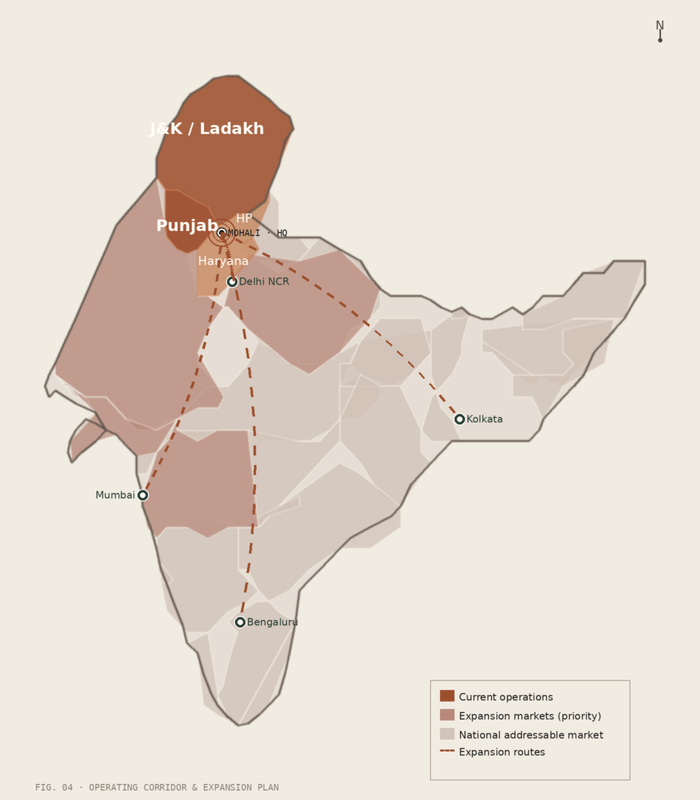
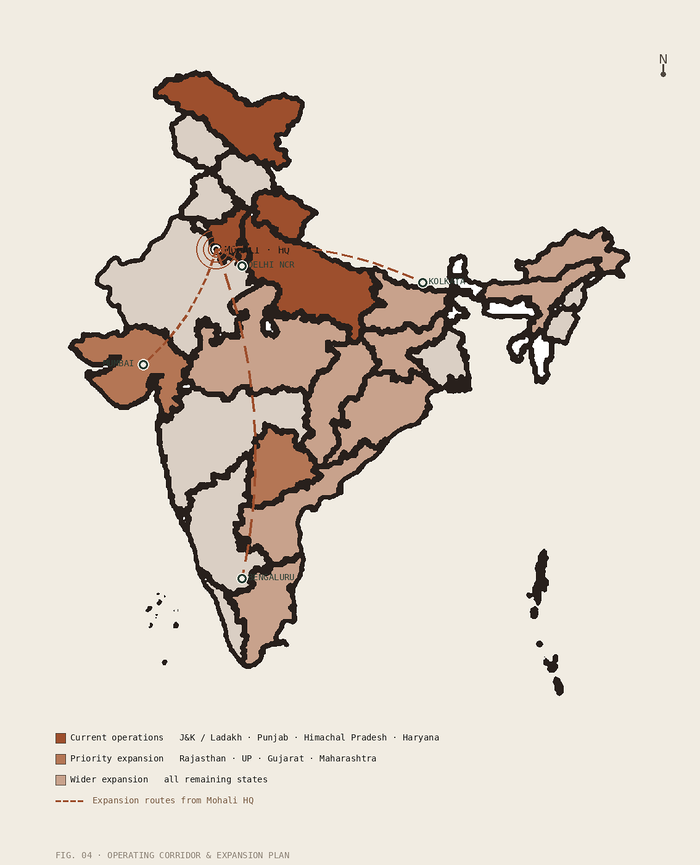
correction(1): add high fidelity map of India, remove map footer

diff --git a/index.html b/index.html
@@ -463,71 +463,6 @@
                   <path d="M 124 30 Q 156 20 189 30 Q 202 40 214 50 L 222 109 Q 210 124 196 138 Q 215 158 231 177 Q 267 208 302 217 Q 339 222 376 227 Q 380 222 537 177 Q 515 220 504 246 Q 494 266 492 286 Q 480 302 467 317 Q 456 326 448 335 L 374 335 Q 362 348 351 360 Q 336 370 321 380 Q 297 395 272 409 Q 258 426 249 443 Q 242 458 240 472 Q 237 482 236 492 Q 231 519 228 545 L 187 598 Q 182 594 177 590 L 161 561 Q 142 507 122 453 Q 113 420 104 386 Q 100 367 99 348 L 53 335 L 24 293 Q 41 287 59 282 Q 79 279 99 276 Q 77 252 55 227 Q 52 207 52 187 Q 67 163 82 138 Q 99 113 117 89 Z"/>
                 </clipPath>
               </defs>
-
-              <!-- Grid backdrop -->
-              <rect width="560" height="630" fill="url(#geoGrid2)"/>
-
-              <!-- India main outline — computed from actual geographic coordinates -->
-              <path d="M 124 30 Q 156 20 189 30 Q 202 40 214 50 L 222 109 Q 210 124 196 138 Q 215 158 231 177 Q 267 208 302 217 Q 339 222 376 227 Q 380 222 537 177 Q 515 220 504 246 Q 494 266 492 286 Q 480 302 467 317 Q 456 326 448 335 L 374 335 Q 362 348 351 360 Q 336 370 321 380 Q 297 395 272 409 Q 258 426 249 443 Q 242 458 240 472 Q 237 482 236 492 Q 231 519 228 545 L 187 598 Q 182 594 177 590 L 161 561 Q 142 507 122 453 Q 113 420 104 386 Q 100 367 99 348 L 53 335 L 24 293 Q 41 287 59 282 Q 79 279 99 276 Q 77 252 55 227 Q 52 207 52 187 Q 67 163 82 138 Q 99 113 117 89 Z"
-                    fill="#EAE3D5" stroke="#181816" stroke-width="0.9" stroke-opacity="0.35"/>
-
-              <!-- Expansion glow — clipped to India, radiates from Mohali outward -->
-              <rect width="560" height="630" fill="url(#reachGrad)" clip-path="url(#indiaClip2)"/>
-
-              <!-- NW corridor highlighted — J&K + HP + Punjab + Haryana -->
-              <path d="M 124 30 Q 156 20 189 30 Q 202 40 214 50 L 222 109 Q 210 124 196 138 Q 215 155 232 172 L 232 210 L 155 210 L 112 187 L 82 138 Q 99 113 117 89 Z"
-                    fill="#9D4F2D" fill-opacity="0.78" stroke="#181816" stroke-width="0.8"/>
-
-              <!-- State labels within the corridor -->
-              <!--
-              <text x="162" y="82"  text-anchor="middle" font-family="Fraunces, serif" font-size="14" fill="#FAF6EE" font-weight="500">J&amp;K</text>
-              <text x="210" y="130" text-anchor="middle" font-family="Fraunces, serif" font-size="9"  fill="#1a1916"  font-weight="500">HP</text>
-              <text x="152" y="175" text-anchor="middle" font-family="Fraunces, serif" font-size="13" fill="#FAF6EE" font-weight="500">Punjab</text>
-              <text x="208" y="200" text-anchor="middle" font-family="Fraunces, serif" font-size="9"  fill="#1a1916"  font-weight="500">Haryana</text>
-              -->
-
-              <!-- Mohali HQ marker -->
-              <g transform="translate(173, 154)">
-                <circle r="13" fill="none" stroke="#181816" stroke-width="0.7" stroke-dasharray="2 3" class="hq-ring"/>
-                <circle r="5"  fill="#FAF6EE" stroke="#181816" stroke-width="1.4"/>
-                <circle r="2"  fill="#181816"/>
-              </g>
-
-              <!-- Mohali leader line — curves up and out above J&K to clean label area -->
-              <path d="M 173 147 Q 204 88 244 36" fill="none" stroke="#181816" stroke-width="0.5" stroke-opacity="0.55"/>
-              <!--
-              <text x="248" y="34" font-family="JetBrains Mono, monospace" font-size="8" fill="#181816" letter-spacing="1">MOHALI · HQ</text>
-              -->
-              <!-- Region annotation — in open space to the right of the map -->
-              <!--
-              <text x="390" y="136" font-family="Fraunces, serif" font-size="13" font-style="italic" fill="#181816">Northwest India</text>
-              -->
-              <line x1="388" y1="143" x2="435" y2="143" stroke="#181816" stroke-width="0.6"/>
-              <!--
-              <text x="388" y="155" font-family="JetBrains Mono, monospace" font-size="7.5" fill="#5C5751" letter-spacing="1.2">OPERATING CORRIDOR</text>
-              -->
-
-              <!-- Expansion routes — very subtle dashed arcs, clipped to India, no arrowheads -->
-              <g clip-path="url(#indiaClip2)">
-                <!-- SW toward Mumbai -->
-                <path d="M 173 154 Q 122 252 104 386" fill="none" stroke="#9D4F2D" stroke-width="0.8" stroke-opacity="0.22" stroke-dasharray="4 6"/>
-                <!-- S toward South India -->
-                <path d="M 173 154 Q 200 360 187 560" fill="none" stroke="#9D4F2D" stroke-width="0.8" stroke-opacity="0.18" stroke-dasharray="3 7"/>
-                <!-- SE toward East India -->
-                <path d="M 173 154 Q 278 220 374 325" fill="none" stroke="#9D4F2D" stroke-width="0.8" stroke-opacity="0.20" stroke-dasharray="4 6"/>
-              </g>
-
-              <!-- Compass -->
-              <g transform="translate(518, 56)">
-                <text font-family="JetBrains Mono, monospace" font-size="9" fill="#5C5751" letter-spacing="1.5" text-anchor="middle" y="-14">N</text>
-                <line x1="0" y1="-10" x2="0" y2="-2" stroke="#181816" stroke-width="0.8"/>
-                <circle r="1.4" fill="#181816"/>
-              </g>
-
-              <!-- Figure caption 
-              <text x="28" y="616" font-family="JetBrains Mono, monospace" font-size="8" fill="#8A8377" letter-spacing="1.5">FIG. 04 · OPERATING CORRIDOR</text>
-             .-->
-            </svg>
           </div>
         </div>
 